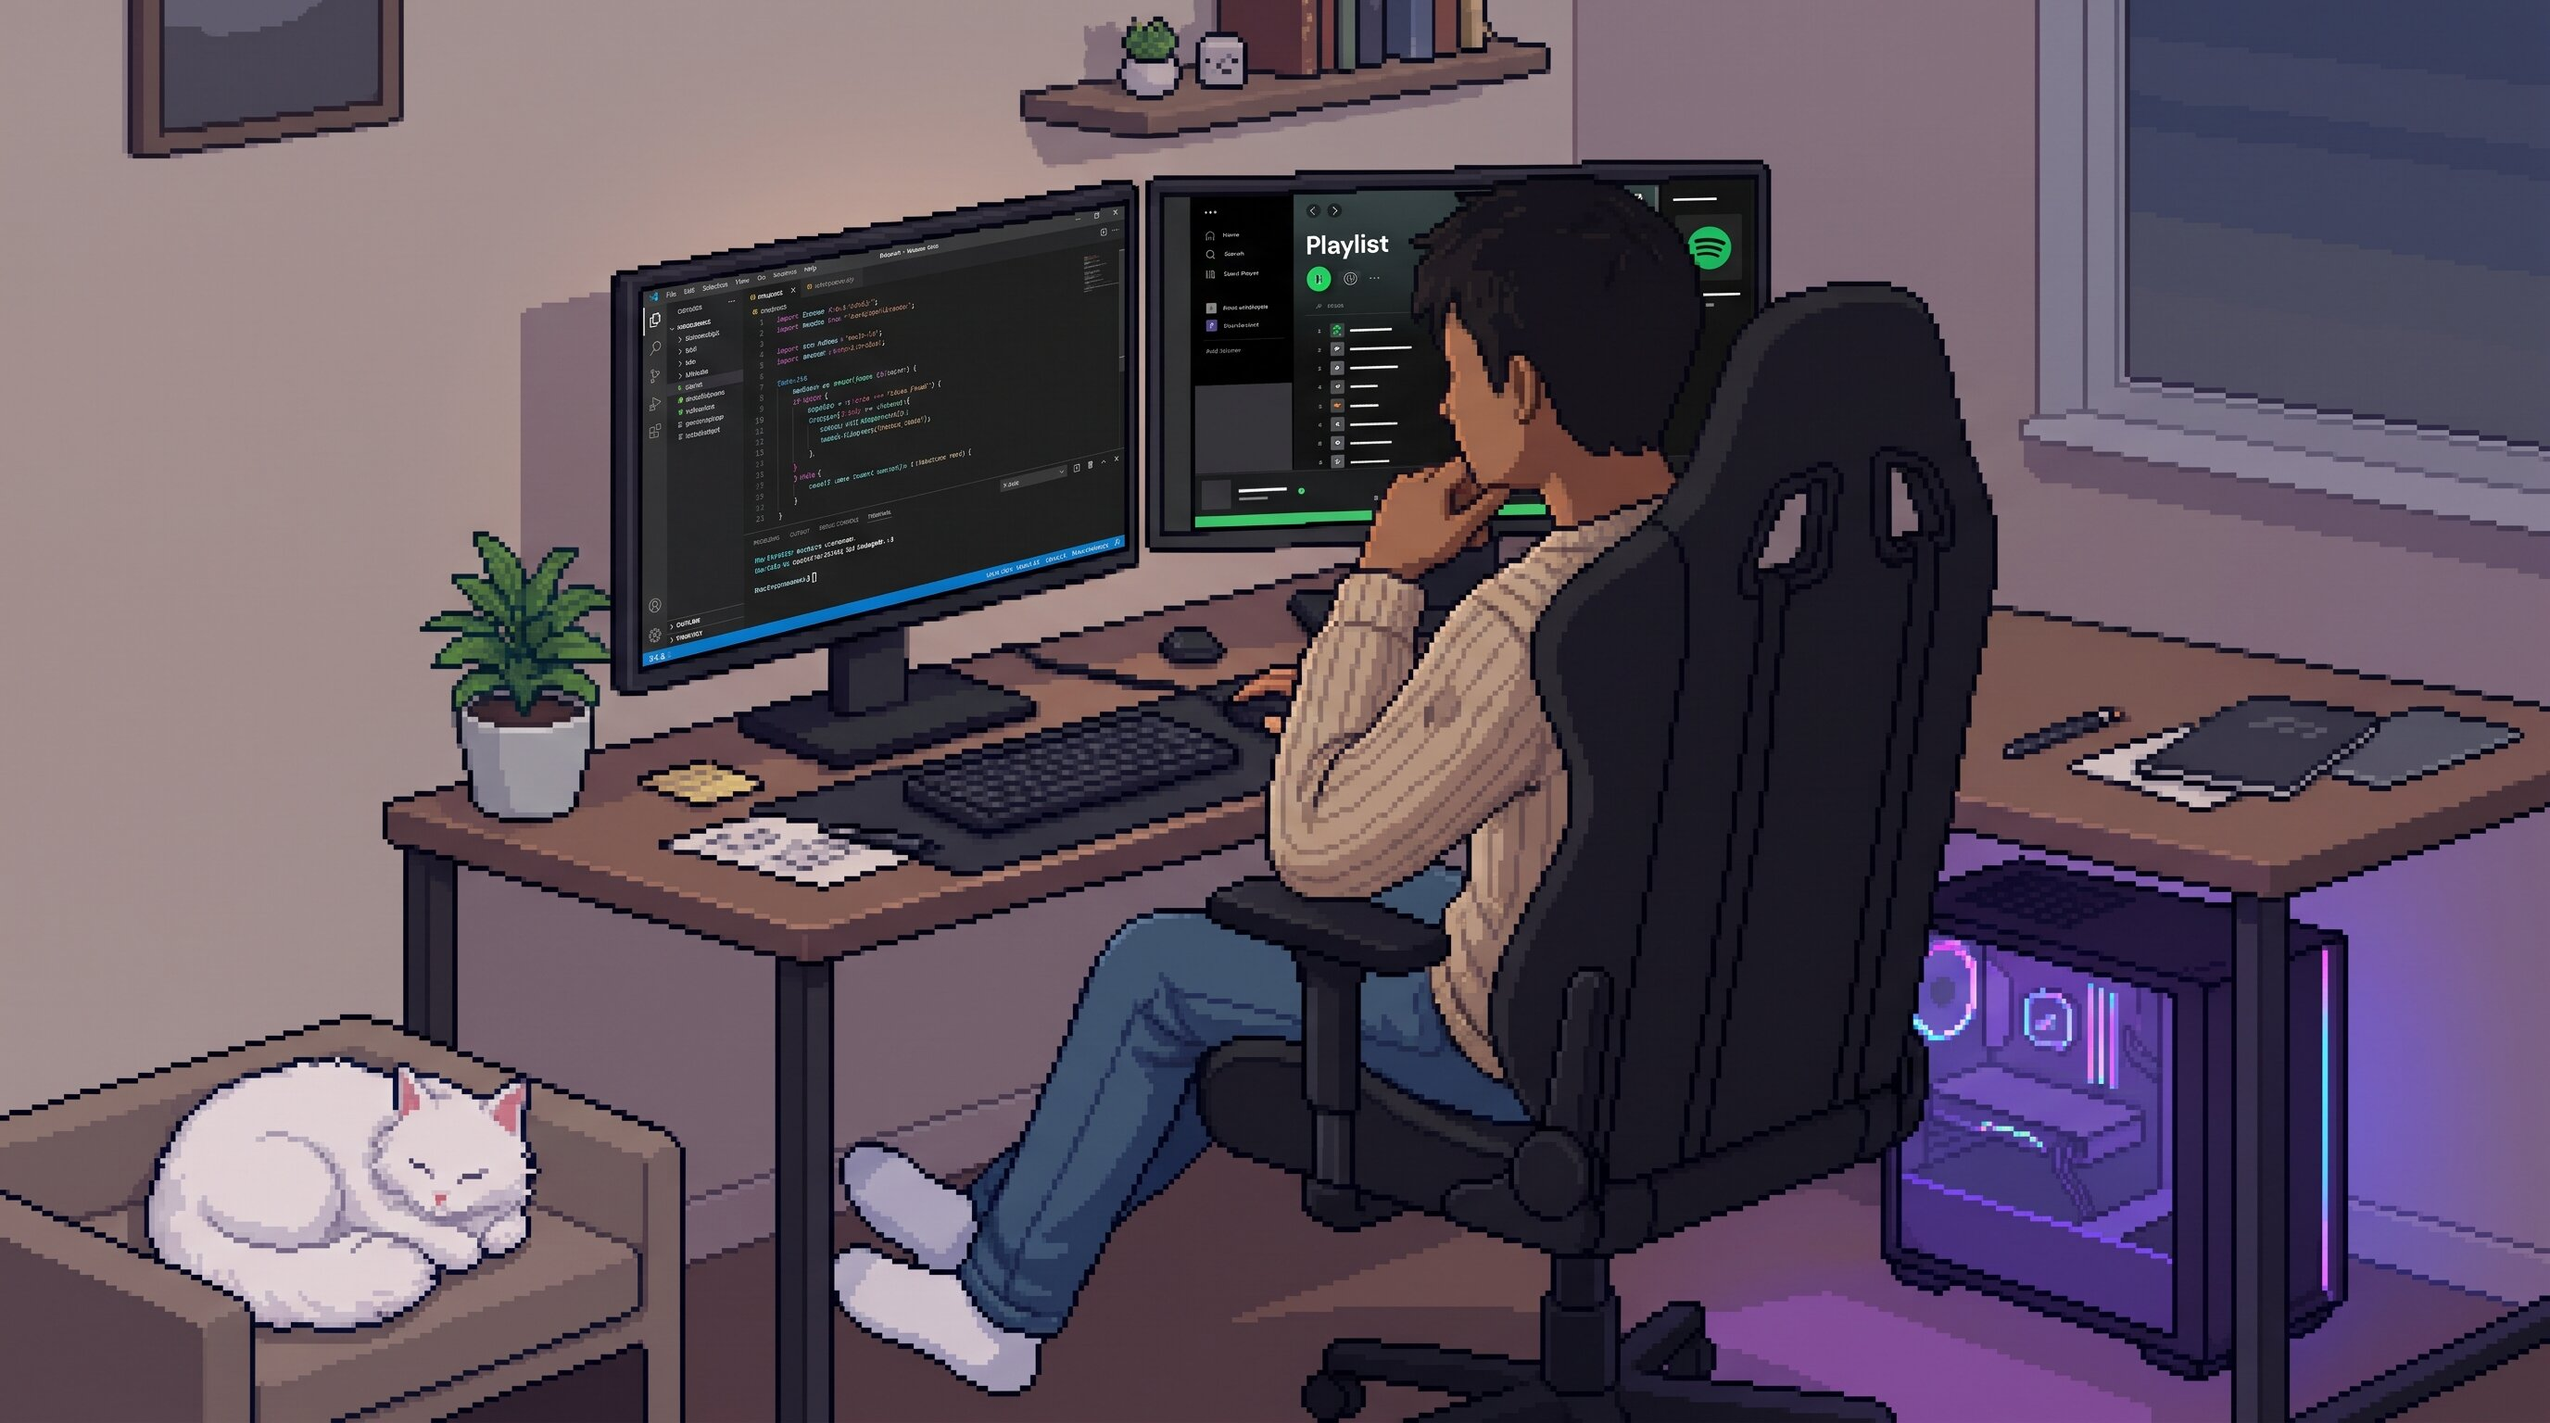
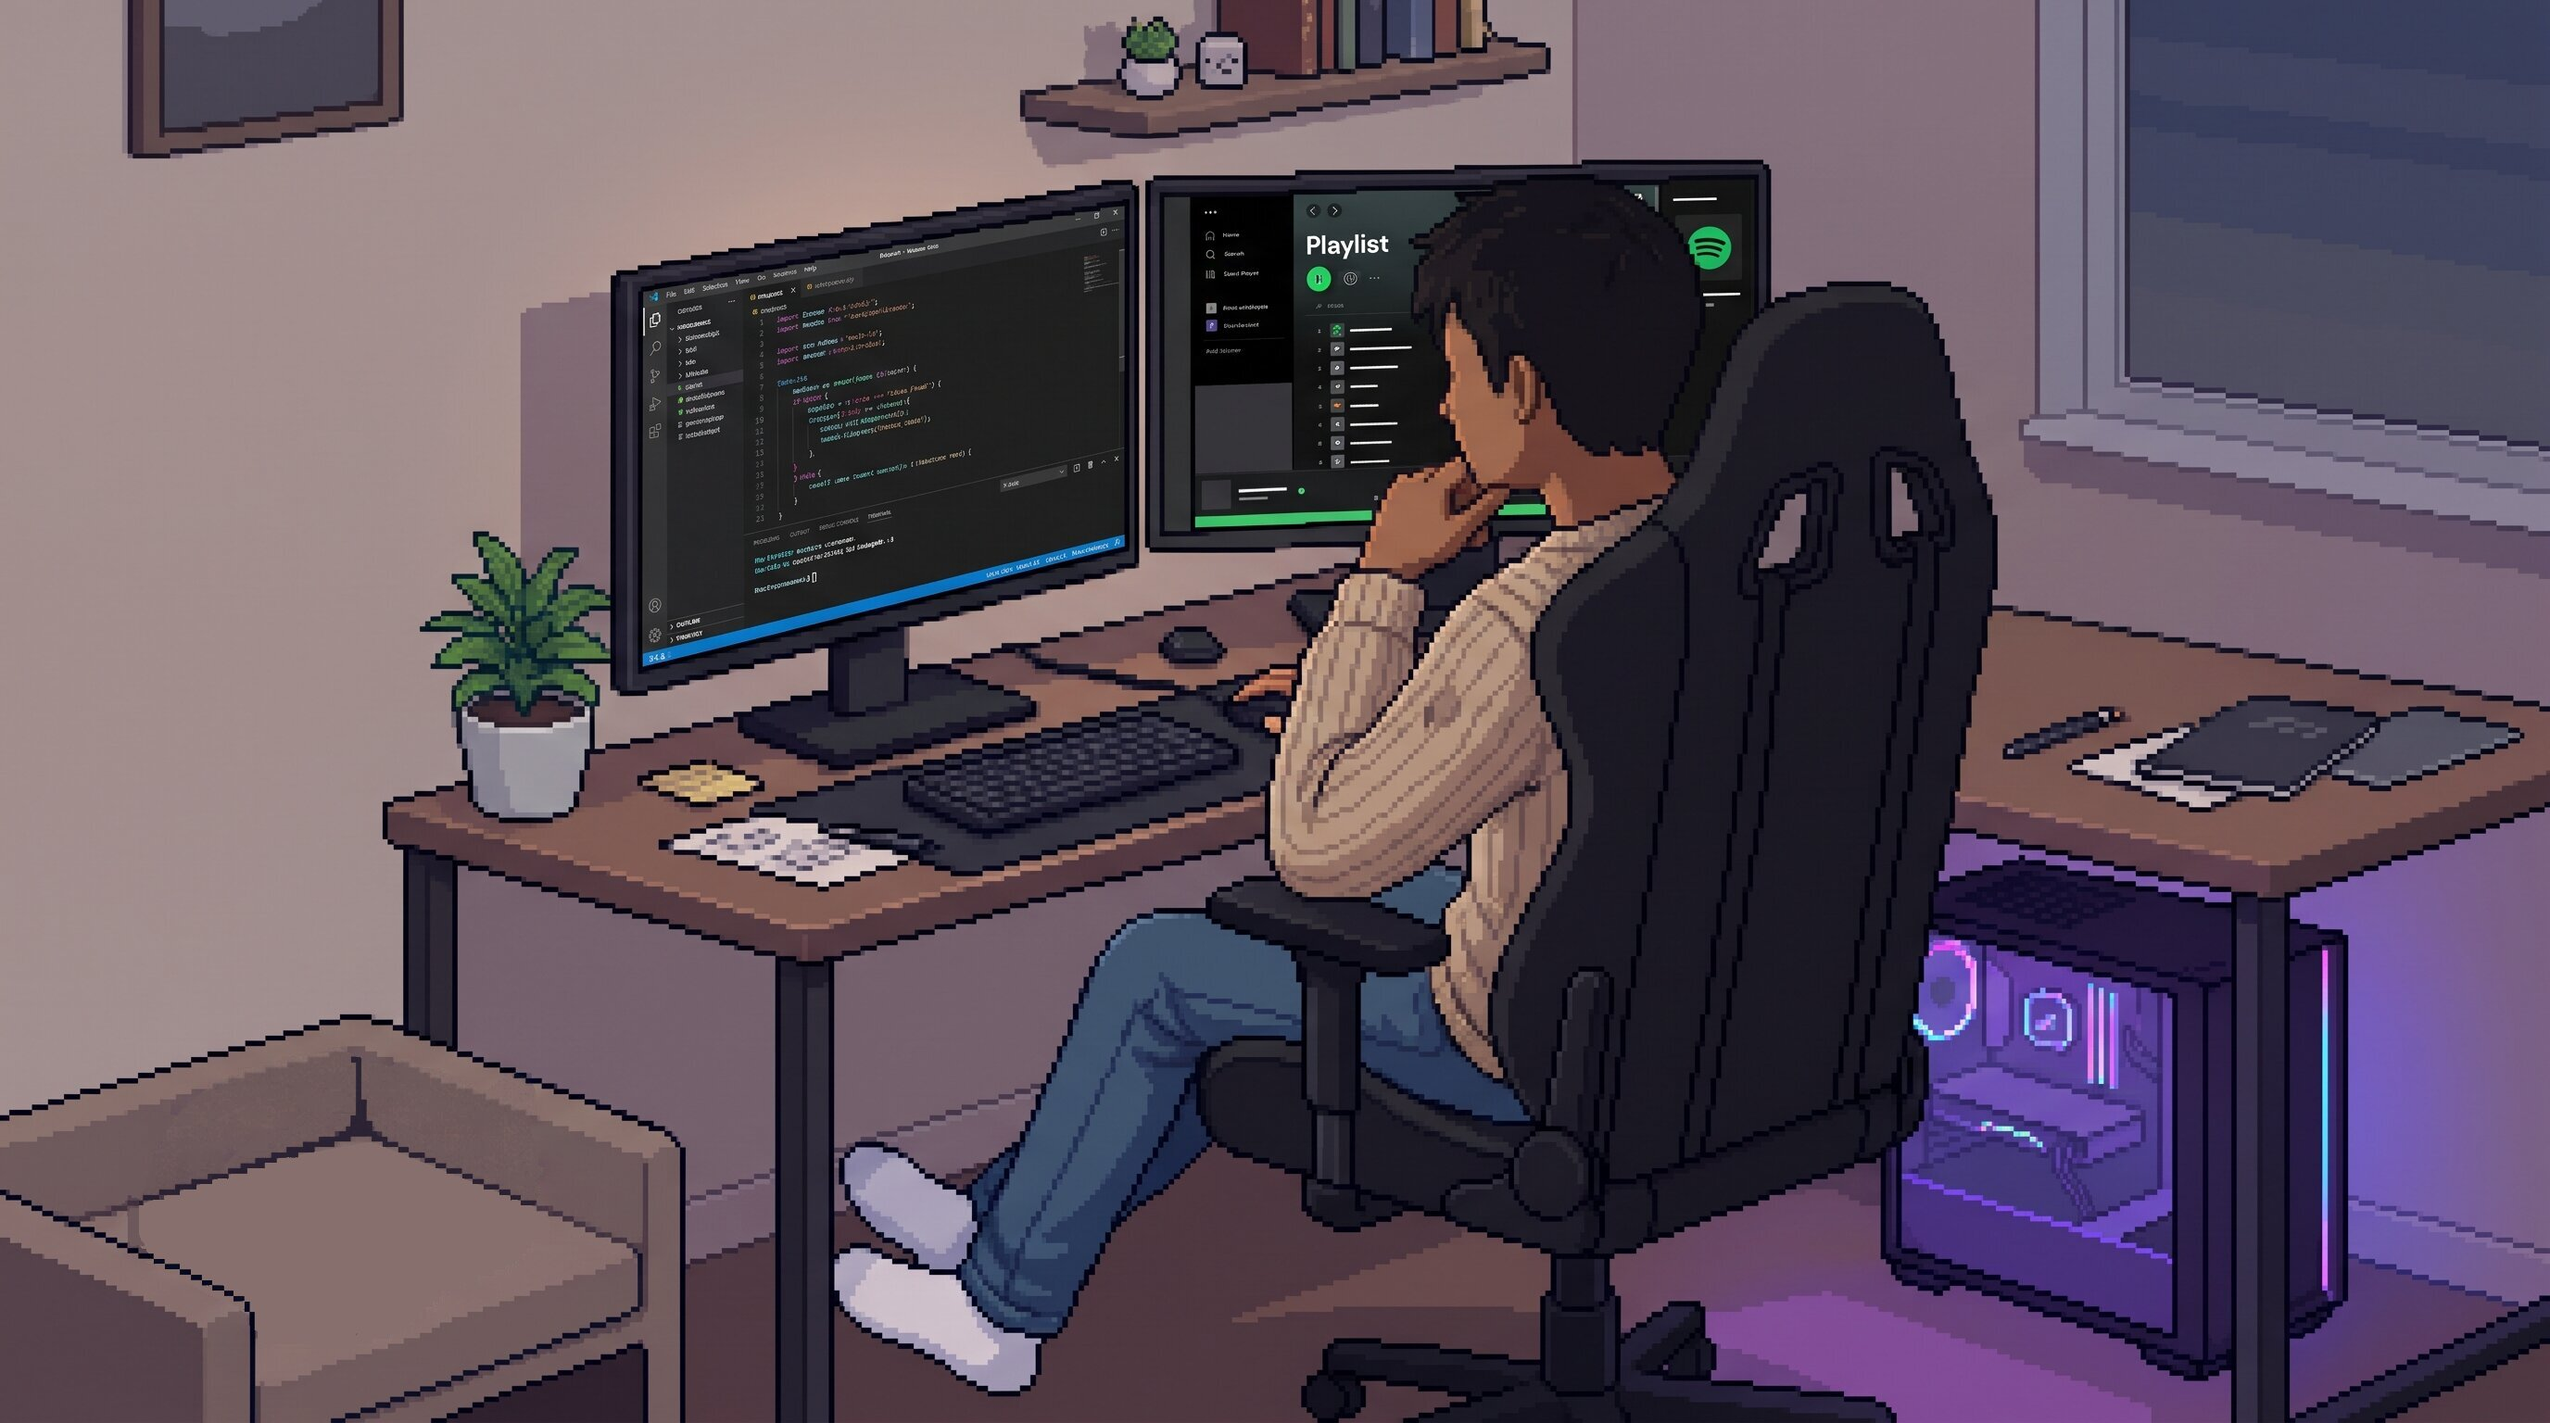
Issue #6, #7 und #9 - Echte Katzen-Sprites eingebaut (Aufwachen, Rennen, Sitzen) und Home-Szene ohne Katze Sprite-Geometrie nur in cat.module.css, Sprites verkleinert (644 → 264 KB), Schutz gegen fehlerhafte Messwerte, Ruheplätze laden sofort.

Changed region(s): [[0.0312, 0.7188, 0.2188, 0.9688]]

diff --git a/components/cat/cat.module.css b/components/cat/cat.module.css
@@ -2,10 +2,14 @@
 
 .spot,
 .traveler {
-  /* Seitenverhältnis des Ruhe-Frames (424 x 304), passt zur Spot-Box auf Home. */
-  --cat-aspect: 424 / 304;
-  /* Breite der Katze auf Nicht-Home-Seiten ≈ Home-Katze (15.41 % von 963 px). */
-  --cat-rest-width: 148px;
+  /* Referenzzelle = schlafende Katze (424 x 304). Alle Streifen sind im selben Szenen-Massstab gezeichnet:
+     dargestellte Breite = Zellbreite x (Breite des Schlaf-Spots / 424). */
+  --ref-w: 424;
+  --ref-h: 304;
+  /* Massstab auf Nicht-Home-Seiten: Bildschirm-px je Sprite-px ≈ Home-Katze (15.41 % von 963 px / 424 px). */
+  --cat-rest-scale: 0.35;
+  /* Abstand von der Unterkante der Titelzeile (text-display-l, 72 px) bis zur Schrift-Grundlinie. */
+  --cat-title-baseline-offset: 8px;
   pointer-events: none;
 }
 
@@ -23,15 +27,16 @@
 }
 
 /* Projekte: absolut rechts neben dem Titel (dessen Container ist relative), der Titel bleibt mittig.
-   Unter lg (1024 px) ausgeblendet, damit sie nichts verdeckt und nicht überläuft. */
+   Unter lg (1024 px) ausgeblendet, damit sie nichts verdeckt und nicht überläuft.
+   Grösse = Zelle der Pose x gemeinsamer Massstab; bottom setzt die Pfoten auf die Titel-Grundlinie. */
 .placeBesideTitle {
   display: none;
   position: absolute;
   left: 100%;
-  bottom: 0;
+  bottom: var(--cat-title-baseline-offset);
   margin-left: 1.5rem;
-  width: var(--cat-rest-width);
-  aspect-ratio: var(--cat-aspect);
+  width: calc(var(--cell-w) * var(--cat-rest-scale) * 1px);
+  aspect-ratio: calc(var(--cell-w) / var(--cell-h));
 }
 
 @media (min-width: 1024px) {
@@ -62,14 +67,59 @@
   image-rendering: pixelated;
 }
 
-/* Mehrere Frames: --frames und --cycle setzt der CatTraveler aus sprites.ts. */
-.frame:not([data-frames="1"]) .strip {
-  animation: strip-play var(--cycle) steps(var(--frames)) infinite;
+/* Sprite-Werte pro Pose (Sprite-Pixel). Beim Tauschen einer Datei hier anpassen:
+   --cell-w/--cell-h = Zellgrösse, --frames = Anzahl Frames, --cycle = Dauer eines Durchlaufs,
+   --anchor-x = Zell-x, der auf der Mittellinie der Katze liegt (meist die Zellmitte). */
+.sleep {
+  --cell-w: 424;
+  --cell-h: 304;
+  --anchor-x: 212;
+  --frames: 1;
 }
 
-@keyframes strip-play {
+.sit {
+  --cell-w: 255;
+  --cell-h: 326;
+  --anchor-x: 127.5;
+  --frames: 1;
+}
+
+/* Panik: 3 Frames, einmal, letzter Frame bleibt. --cycle = PANIC_MS in catMotion.ts (700 ms). */
+.panic {
+  --cell-w: 511;
+  --cell-h: 487;
+  --anchor-x: 255.5;
+  --frames: 3;
+  --cycle: 0.7s;
+}
+
+.panic .strip {
+  animation: strip-once var(--cycle) steps(var(--frames), jump-none) forwards;
+}
+
+/* Rennen: 6 Frames, Schleife mit ca. 11 fps. Anker = Kopf: Die Nasenkante bei x=650 soll dort liegen,
+   wo die Nase des Landungs-Frames (aufwachen, rechter Rand 507, Mitte 255.5) liegt: 650 - (507 - 255.5) = 398.5. */
+.run {
+  --cell-w: 688;
+  --cell-h: 291;
+  --anchor-x: 398.5;
+  --frames: 6;
+  --cycle: 0.545s;
+}
+
+.run .strip {
+  animation: strip-loop var(--cycle) steps(var(--frames)) infinite;
+}
+
+@keyframes strip-loop {
   to {
     transform: translateX(-100%);
+  }
+}
+
+@keyframes strip-once {
+  to {
+    transform: translateX(calc(-100% * (var(--frames) - 1) / var(--frames)));
   }
 }
 
@@ -94,8 +144,8 @@
   left: 0;
   top: 0;
   z-index: 40;
-  width: var(--cat-w, var(--cat-rest-width));
-  height: var(--cat-h, auto);
+  width: var(--cat-w, 0px);
+  height: var(--cat-h, 0px);
   transform: translate(var(--cat-x, 0px), var(--cat-y, 0px));
   transform-origin: 0 0;
   visibility: hidden;
@@ -106,6 +156,7 @@
 }
 
 .flipper {
+  position: relative;
   display: block;
   width: 100%;
   height: 100%;
@@ -115,11 +166,16 @@
   transform: scaleX(-1);
 }
 
-/* Pro Zustand wird genau ein Sprite gezeigt (später verschiedene Streifen). */
+/* Alle Sprites im gemeinsamen Massstab (Rahmenbreite / Referenzzelle), Pfoten unten,
+   --anchor-x der Zelle liegt auf der Mittellinie des Rahmens. */
 .sprite {
   display: none;
-  width: 100%;
-  height: 100%;
+  position: absolute;
+  bottom: 0;
+  left: 50%;
+  width: calc(var(--cat-w) * var(--cell-w) / var(--ref-w));
+  height: calc(var(--cat-h) * var(--cell-h) / var(--ref-h));
+  margin-left: calc(var(--cat-w) * var(--anchor-x) / var(--ref-w) * -1);
 }
 
 .traveler[data-state="panicking"] .spritePanic,

diff --git a/components/cat/catMotion.ts b/components/cat/catMotion.ts
@@ -1,7 +1,10 @@
 /** Hilfsfunktionen für den CatTraveler: Messen, Dauer und Medienabfragen. */
 import type { RestPose } from "./sprites";
 
-/** Bildschirmposition und Grösse einer Katze in Viewport-Pixeln. */
+/**
+ * Bildschirmposition und Grösse des Traveler-Rahmens in Viewport-Pixeln. Der Rahmen hat die Grösse
+ * der schlafenden Katze (Referenzzelle); Pfoten-Grundlinie und Mittellinie stimmen mit dem Spot überein.
+ */
 export type CatBox = { x: number; y: number; w: number; h: number };
 
 /** Wo die Katze gerade ruht ("run" = wurde mitten auf der Reise unterbrochen, ist also wach). */
@@ -9,6 +12,7 @@ export type CatSpotReading = CatBox & { pose: RestPose | "run" };
 
 export const RUN_SPEED_PX_PER_SECOND = 700;
 export const RUN_MIN_MS = 350;
+/** Dauer der Panik-Phase. Muss zu --cycle in .panic (cat.module.css) passen: Der Panik-Streifen läuft genau so lange einmal ab. */
 export const PANIC_MS = 700;
 export const ARRIVE_MS = 300;
 
@@ -35,12 +39,23 @@ export function readSpot(): CatSpotReading | null {
     }
   }
   if (!spot || !rect) return null;
+  const pose = spot.dataset.catPose === "sit" ? "sit" : "sleep";
+  // Gemeinsamer Massstab: Sprite-Pixel -> Bildschirm-Pixel, aus der Breite des Spots.
+  // Zellmasse stehen nur in cat.module.css und werden hier aus den CSS-Variablen gelesen.
+  const css = getComputedStyle(spot);
+  const cssNumber = (name: string) => parseFloat(css.getPropertyValue(name));
+  const scale = rect.width / cssNumber("--cell-w");
+  const w = cssNumber("--ref-w") * scale;
+  const h = cssNumber("--ref-h") * scale;
+  // Fehlt eine CSS-Variable (NaN) oder ist die Breite 0, lieber "kein Spot" als eine kaputte Reise.
+  if (![rect.width, w, h].every(Number.isFinite) || w <= 0) return null;
   return {
-    x: rect.left,
-    y: rect.top,
-    w: rect.width,
-    h: rect.height,
-    pose: spot.dataset.catPose === "sit" ? "sit" : "sleep",
+    // Mittellinie und Unterkante des Spots bleiben, egal wie gross die Zelle der Pose ist.
+    x: rect.left + rect.width / 2 - w / 2,
+    y: rect.bottom - h,
+    w,
+    h,
+    pose,
   };
 }
 

diff --git a/components/cat/sprites.ts b/components/cat/sprites.ts
@@ -1,40 +1,22 @@
 import type { StaticImageData } from "next/image";
+import aufwachen from "@/public/images/katze/aufwachen.png";
+import rennen from "@/public/images/katze/rennen.png";
 import schlafen from "@/public/images/katze/schlafen.png";
+import sitzen from "@/public/images/katze/sitzen.png";
 
 /**
- * Zentrale Sprite-Konfiguration. Vertrag für die echten Streifen:
- * public/images/katze/<name>.png, ein horizontaler Streifen gleich grosser Frames,
- * Pfoten auf der unteren Kante. Später nur Datei + Werte hier tauschen.
- *
- * Ruhe-Posen (sleep, sit) MÜSSEN genau ein Frame haben: Nur der CatTraveler setzt --frames/--cycle,
- * Spot-Katzen hätten bei mehreren Frames keine Variablen und damit keine Animation.
- * Ruhe-Posen (sleep, sit) sind genau ein Frame; das Atmen kommt per CSS.
- * Frame-Animationen (panic, run) werden nur vom CatTraveler abgespielt.
+ * Welche Bilddatei zu welcher Pose gehört. Vertrag: public/images/katze/<name>.png ist ein
+ * horizontaler Streifen gleich grosser Frames, Pfoten auf der unteren Kante.
+ * Zellgrösse, Frame-Anzahl, Tempo und Kopf-Anker stehen in cat.module.css (.sleep, .sit, .panic, .run),
+ * dort werden sie beim Tauschen einer Datei mit angepasst.
  */
 export type SpriteName = "sleep" | "sit" | "panic" | "run";
 
-export type Sprite = {
-  image: StaticImageData;
-  frames: number;
-  frameWidth: number;
-  frameHeight: number;
-  framesPerSecond: number;
-};
-
-// Vorläufig ist überall dasselbe Bild eingetragen (1 Frame, 424 x 304).
-const placeholder = {
-  image: schlafen,
-  frames: 1,
-  frameWidth: 424,
-  frameHeight: 304,
-  framesPerSecond: 8,
-} satisfies Sprite;
-
-export const sprites: Record<SpriteName, Sprite> = {
-  sleep: placeholder,
-  sit: placeholder,
-  panic: placeholder,
-  run: placeholder,
+export const spriteImages: Record<SpriteName, StaticImageData> = {
+  sleep: schlafen,
+  sit: sitzen,
+  panic: aufwachen,
+  run: rennen,
 };
 
 /** Posen, in denen eine Katze auf einer Seite ruhen kann. */

diff --git a/components/cat/CatTraveler.tsx b/components/cat/CatTraveler.tsx
@@ -35,17 +35,8 @@ export default function CatTraveler() {
   const timer = useRef<number | undefined>(undefined);
   const animation = useRef<Animation | undefined>(undefined);
 
-  // Einmalig: Frame-Anzahl und Zyklusdauer aus sprites.ts (über data-Attribute) in CSS übertragen.
+  // Beim Entfernen des Travelers das Ausblenden der Spot-Katzen sicher aufheben.
   useLayoutEffect(() => {
-    const traveler = travelerRef.current;
-    if (!traveler) return;
-    traveler.querySelectorAll<HTMLElement>("[data-sprite]").forEach((sprite) => {
-      const frames = Number(sprite.dataset.frames);
-      const fps = Number(sprite.dataset.fps);
-      // Gleiche Begründung wie unten: Custom Properties statt style=.
-      sprite.style.setProperty("--frames", String(frames));
-      sprite.style.setProperty("--cycle", `${frames / fps}s`);
-    });
     return () => document.documentElement.removeAttribute(TRAVELING_ATTRIBUTE);
   }, []);
 
@@ -177,10 +168,12 @@ export default function CatTraveler() {
   return (
     <div ref={travelerRef} className={styles.traveler} data-state="resting" aria-hidden="true">
       <div className={styles.flipper}>
-        <div className={`${styles.sprite} ${styles.spritePanic}`}>
+        {/* Die Pose-Klasse steht am Wrapper, damit .sprite die Zellmasse (--cell-w usw.) für Position und Grösse
+            hat, und zusätzlich am .frame in CatSprite, wo die Streifen-Animation hängt. Dieselbe Klasse wie beim Spot. */}
+        <div className={`${styles.sprite} ${styles.spritePanic} ${styles.panic}`}>
           <CatSprite name="panic" eager />
         </div>
-        <div className={`${styles.sprite} ${styles.spriteRun}`}>
+        <div className={`${styles.sprite} ${styles.spriteRun} ${styles.run}`}>
           <CatSprite name="run" eager />
         </div>
       </div>

diff --git a/components/cat/CatSprite.tsx b/components/cat/CatSprite.tsx
@@ -1,27 +1,22 @@
 import Image from "next/image";
-import { sprites, type SpriteName } from "./sprites";
+import { spriteImages, type SpriteName } from "./sprites";
 import styles from "./cat.module.css";
 
 type CatSpriteProps = {
   name: SpriteName;
-  /** Nur für den Traveler: Bild sofort laden, da er sonst erst beim ersten Lauf nachlädt. */
+  /** Sofort laden: Traveler (sonst erst beim ersten Lauf) und Spots (sofort sichtbar nach der Ankunft). */
   eager?: boolean;
 };
 
 /** Ein Sprite-Streifen in einem Rahmen, der genau einen Frame zeigt. Füllt sein Elternelement. */
 export default function CatSprite({ name, eager = false }: CatSpriteProps) {
-  const { image, frames, frameWidth, frameHeight, framesPerSecond } = sprites[name];
+  const image = spriteImages[name];
   return (
-    <span
-      className={`${styles.frame} ${name === "sleep" ? styles.breathing : ""}`}
-      data-sprite={name}
-      data-frames={frames}
-      data-fps={framesPerSecond}
-    >
+    <span className={`${styles.frame} ${styles[name]} ${name === "sleep" ? styles.breathing : ""}`}>
       <Image
         src={image}
-        width={frameWidth * frames}
-        height={frameHeight}
+        width={image.width}
+        height={image.height}
         alt=""
         loading={eager ? "eager" : undefined}
         className={styles.strip}

diff --git a/components/cat/CatSpot.tsx b/components/cat/CatSpot.tsx
@@ -15,8 +15,9 @@ type CatSpotProps = {
 export default function CatSpot({ pose, place }: CatSpotProps) {
   const placeClass = place === "home-scene" ? styles.placeHomeScene : styles.placeBesideTitle;
   return (
-    <span className={`${styles.spot} ${placeClass}`} data-cat-spot data-cat-pose={pose} aria-hidden="true">
-      <CatSprite name={pose} />
+    <span className={`${styles.spot} ${styles[pose]} ${placeClass}`} data-cat-spot data-cat-pose={pose} aria-hidden="true">
+      {/* eager: Nach der Ankunft wird der Spot sofort sichtbar, ein lazy Bild würde kurz fehlen. */}
+      <CatSprite name={pose} eager />
     </span>
   );
 }
